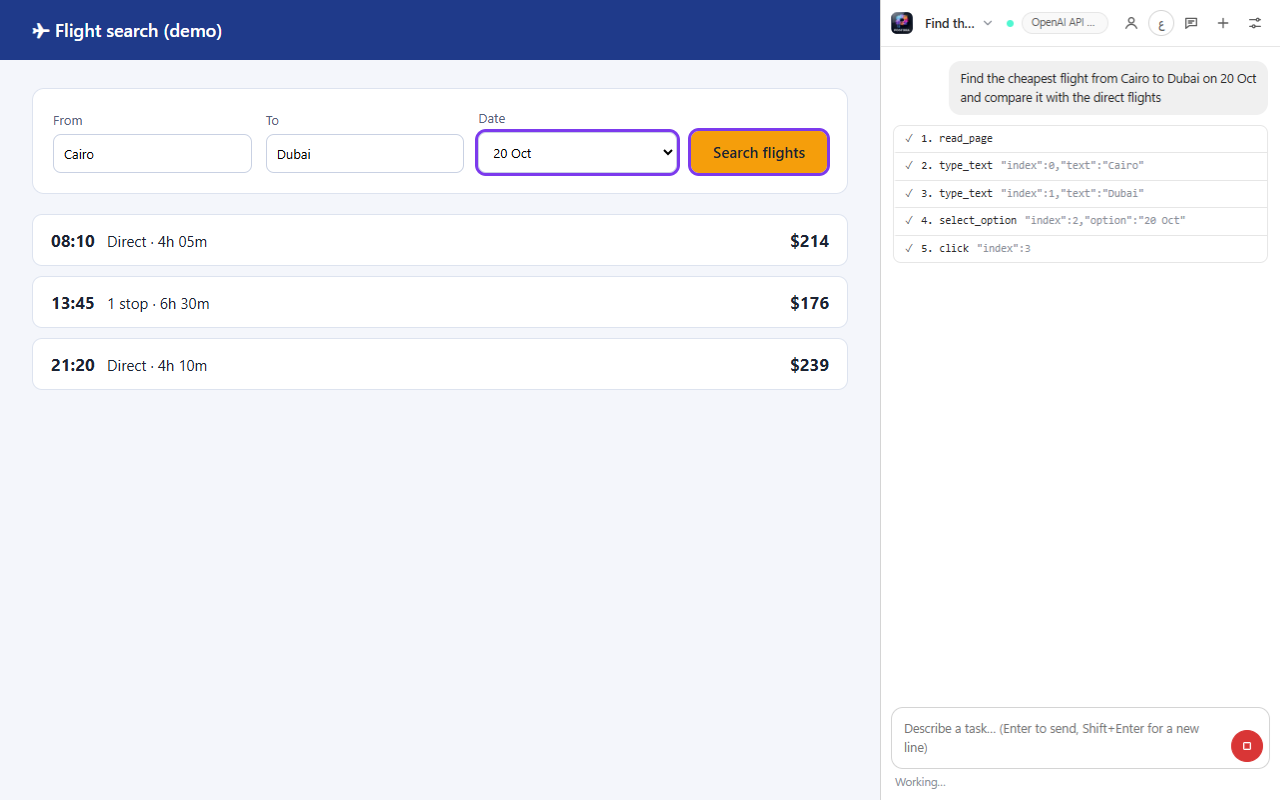
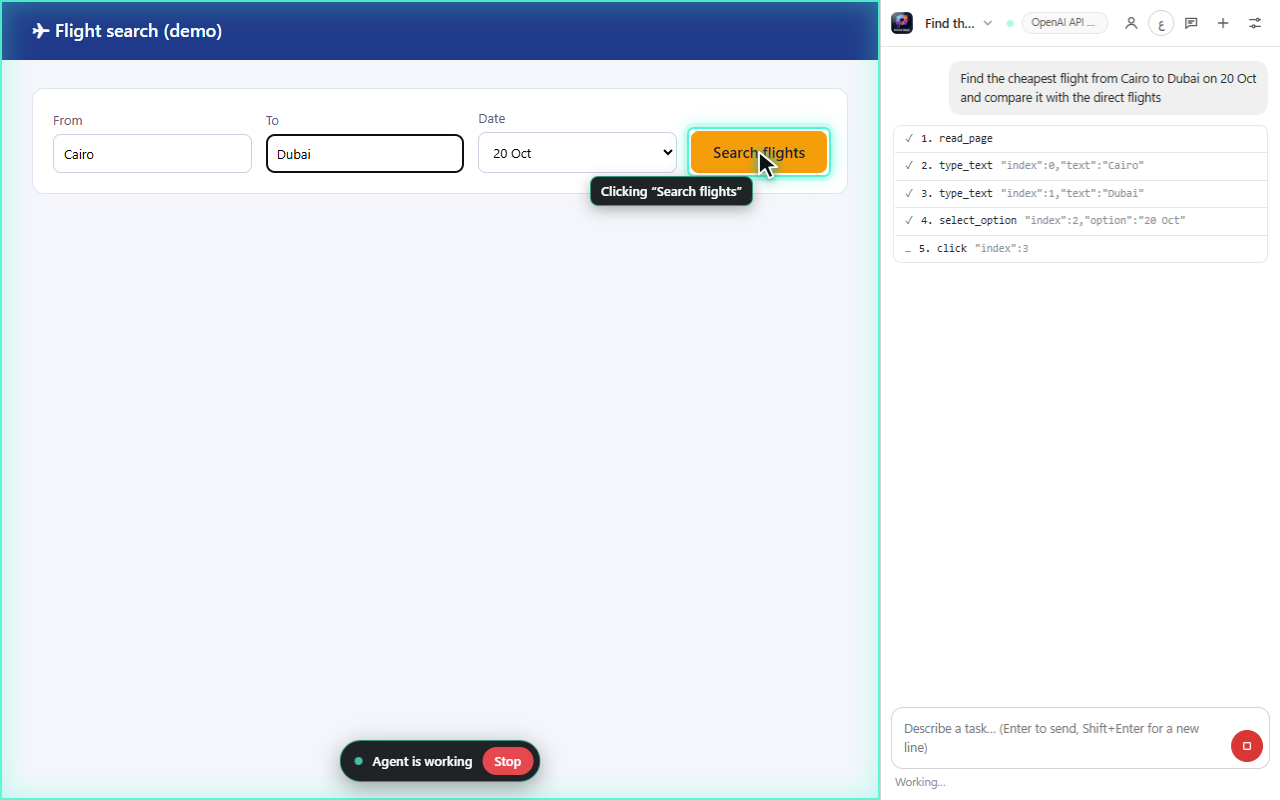
fix(release): keep the package script working on Node 20; retake screenshot with the live cursor
zlib.crc32 needs Node 22.2 and Promise.withResolvers Node 22, while the docs
promise Node 20: CRC-32 is now computed in the script (checked against the
standard 0xCBF43926 test value) and the screenshot hold uses a plain promise.
Screenshot 1 now shows the merged live cursor clicking "Search flights".

Changed region(s): [[0.0, 0.0, 0.6875, 1.0], [0.7188, 0.2812, 0.7812, 0.3125]]

diff --git a/test/package.test.js b/test/package.test.js
@@ -1,7 +1,7 @@
 import { test } from 'node:test';
 import assert from 'node:assert/strict';
 import zlib from 'node:zlib';
-import { overlongDescriptions, packageFiles, storeManifest, zip } from '../scripts/package.mjs';
+import { crc32, overlongDescriptions, packageFiles, storeManifest, zip } from '../scripts/package.mjs';
 
 test('the store package holds only what the extension runs', () => {
   const files = packageFiles();
@@ -21,6 +21,11 @@ test('the uploaded manifest drops the development key', () => {
 
 test('every locale description fits the store limit', () => {
   assert.deepEqual(overlongDescriptions(), []);
+});
+
+test('crc32 matches the standard check value', () => {
+  assert.equal(crc32(Buffer.from('123456789')), 0xcbf43926);
+  assert.equal(crc32(Buffer.alloc(0)), 0);
 });
 
 test('zip writes entries that inflate back to their bytes', () => {

diff --git a/CHROMEWEBSTORE.md b/CHROMEWEBSTORE.md
@@ -84,7 +84,7 @@ English (with an Arabic translation)
 | Asset | Dimensions | Status | Filename |
 |-------|-----------|--------|----------|
 | Store Icon | 128×128 PNG | ✅ Ready | `icons/icon-128.png` |
-| Screenshot 1: task running | 1280×800 | 🟡 Retake once the live cursor (PR #8) is merged | `store-assets/screenshot-1-working.png` |
+| Screenshot 1: task running, live cursor clicking | 1280×800 | ✅ Ready | `store-assets/screenshot-1-working.png` |
 | Screenshot 2: final report | 1280×800 | ✅ Ready | `store-assets/screenshot-2-report.png` |
 | Screenshot 3: settings | 1280×800 | ✅ Ready | `store-assets/screenshot-3-settings.png` |
 | Small Promo Tile | 440×280 | ✅ Ready | `store-assets/promo-small-440x280.png` |
@@ -163,7 +163,6 @@ Paste each line into the matching field of the dashboard's Privacy tab.
 1. **Developer account:** register at the dashboard (one-time US$5 fee) and verify the contact email.
 2. **Google sign-in:** the store assigns a new extension ID, so add `https://<store-id>.chromiumapp.org/` to the OAuth client's authorized redirect URIs in Google Cloud. Then replace the manifest `key` with the store item's public key (Dashboard → Package → View public key), so unpacked development builds share the store ID. Also enable the Google Drive API for the project, and publish the OAuth consent screen with the `drive.appdata` scope (Google may ask to verify the app).
 3. **Privacy policy link** must be live (merge this branch).
-4. **Live cursor:** both descriptions mention the on-page cursor and Stop button, which come from PR #8. Merge it before packaging (then retake screenshot 1), or remove that line from both descriptions.
 
 ### Known Issues / Limitations (review risks)
 - **`debugger` + `<all_urls>`** puts the item in in-depth review, which can take longer than usual. The justifications above explain both.
